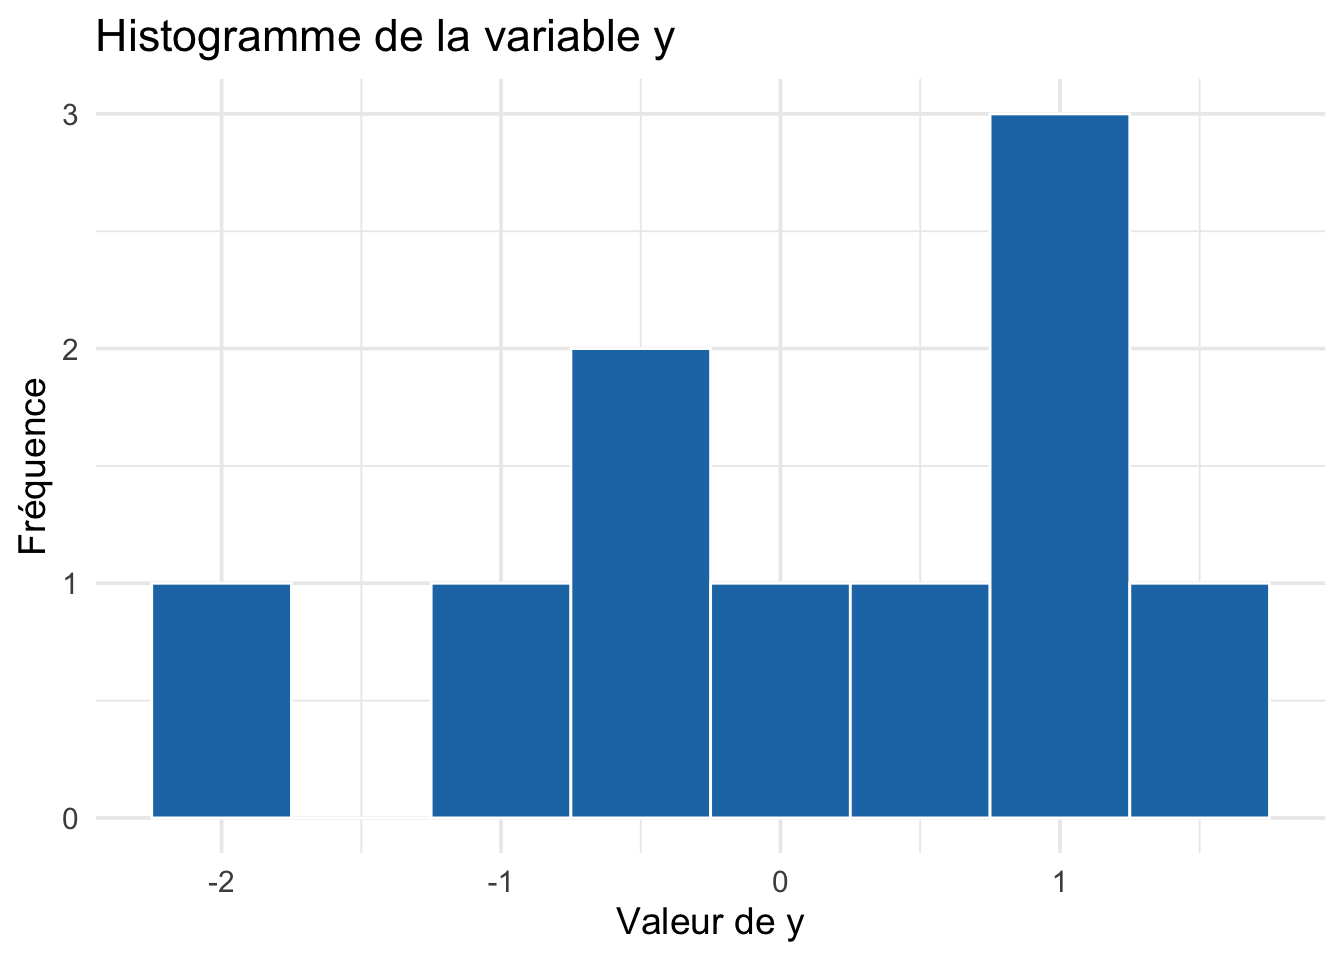
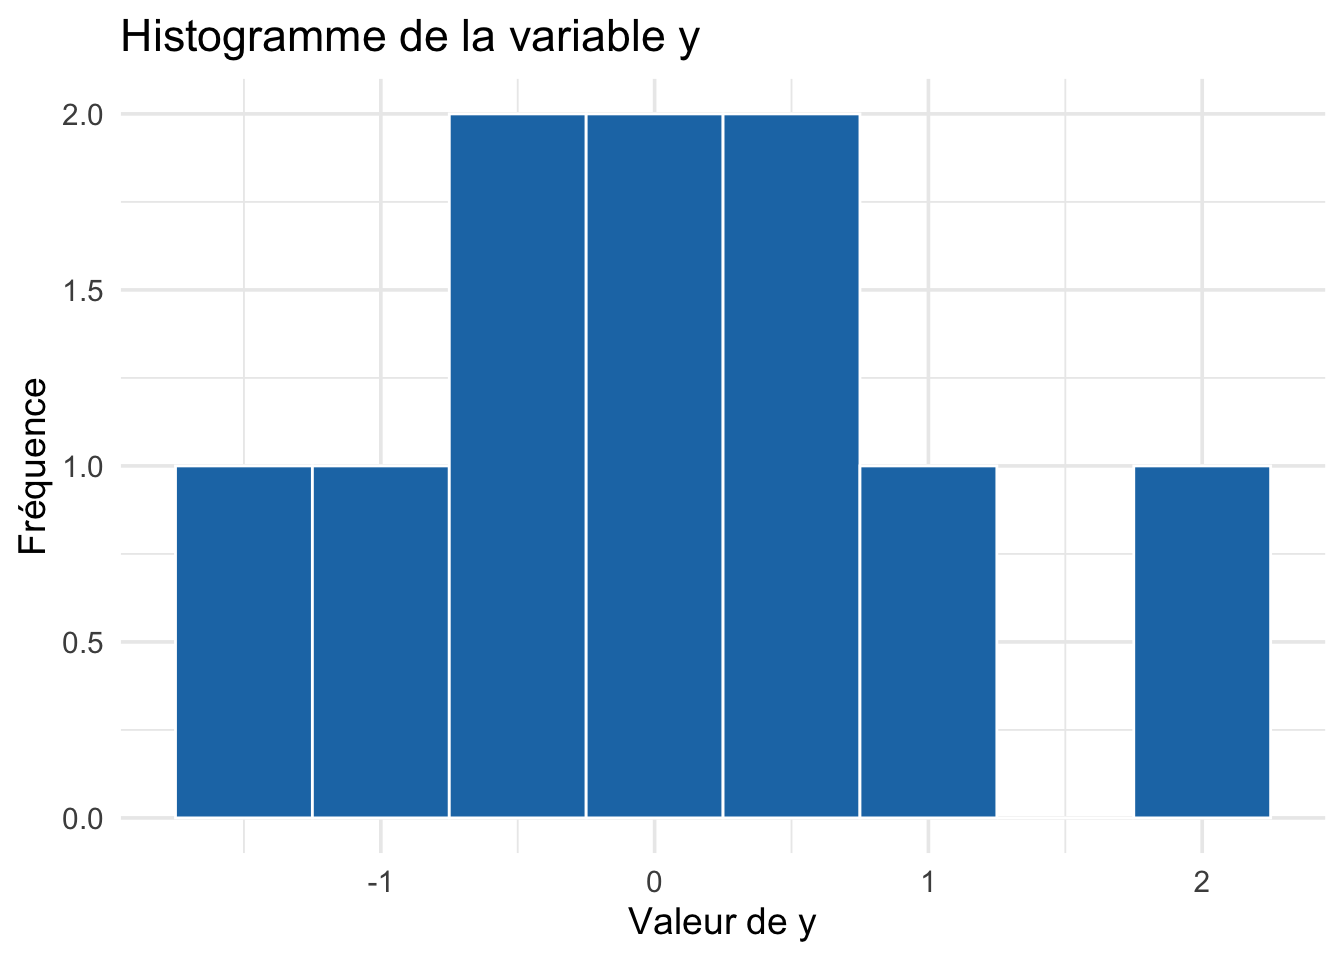
push

diff --git a/docs/IUT/Autoweb/index.html b/docs/IUT/Autoweb/index.html
@@ -302,18 +302,18 @@ pre > code.sourceCode > span > a:first-child::before { text-decoration: underlin
 <span id="cb2-21"><a href="#cb2-21" aria-hidden="true" tabindex="-1"></a>df</span></code><button title="Copier vers le presse-papier" class="code-copy-button"><i class="bi"></i></button></pre></div>
 <div class="cell-output cell-output-stdout">
 <pre><code># A tibble: 10 × 3
-       x        y        z
-   &lt;int&gt;    &lt;dbl&gt;    &lt;dbl&gt;
- 1     1  0.00653  0.00653
- 2     2  1.33     2.66   
- 3     3  0.648    1.94   
- 4     4 -1.79    -7.16   
- 5     5 -0.340   -1.70   
- 6     6  1.19     7.14   
- 7     7 -1.21    -8.50   
- 8     8  0.846    6.77   
- 9     9 -0.319   -2.87   
-10    10  1.00    10.0    </code></pre>
+       x        y       z
+   &lt;int&gt;    &lt;dbl&gt;   &lt;dbl&gt;
+ 1     1  1.87     1.87  
+ 2     2  0.229    0.458 
+ 3     3 -0.625   -1.87  
+ 4     4  0.677    2.71  
+ 5     5 -0.428   -2.14  
+ 6     6  0.00179  0.0107
+ 7     7 -1.30    -9.13  
+ 8     8  0.507    4.06  
+ 9     9  1.24    11.2   
+10    10 -0.759   -7.59  </code></pre>
 </div>
 </div>
 </section>
@@ -324,12 +324,12 @@ pre > code.sourceCode > span > a:first-child::before { text-decoration: underlin
 <span id="cb4-2"><a href="#cb4-2" aria-hidden="true" tabindex="-1"></a><span class="fu">summary</span>(df)</span></code><button title="Copier vers le presse-papier" class="code-copy-button"><i class="bi"></i></button></pre></div>
 <div class="cell-output cell-output-stdout">
 <pre><code>       x               y                 z          
- Min.   : 1.00   Min.   :-1.7906   Min.   :-8.4957  
- 1st Qu.: 3.25   1st Qu.:-0.3345   1st Qu.:-2.5789  
- Median : 5.50   Median : 0.3271   Median : 0.9747  
- Mean   : 5.50   Mean   : 0.1358   Mean   : 0.8315  
- 3rd Qu.: 7.75   3rd Qu.: 0.9637   3rd Qu.: 5.7416  
- Max.   :10.00   Max.   : 1.3281   Max.   :10.0282  </code></pre>
+ Min.   : 1.00   Min.   :-1.3038   Min.   :-9.1266  
+ 1st Qu.: 3.25   1st Qu.:-0.5756   1st Qu.:-2.0747  
+ Median : 5.50   Median : 0.1154   Median : 0.2344  
+ Mean   : 5.50   Mean   : 0.1409   Mean   :-0.0443  
+ 3rd Qu.: 7.75   3rd Qu.: 0.6343   3rd Qu.: 2.4965  
+ Max.   :10.00   Max.   : 1.8670   Max.   :11.1835  </code></pre>
 </div>
 </div>
 </section>

diff --git a/docs/TP1.html b/docs/TP1.html
@@ -326,7 +326,7 @@ TP noté
 </div>
 </a>
 </div>
-<div class="g-col-1" data-index="3" data-listing-date-sort="NaN" data-listing-file-modified-sort="1747572323966" data-listing-date-modified-sort="NaN" data-listing-reading-time-sort="2" data-listing-word-count-sort="329">
+<div class="g-col-1" data-index="3" data-listing-date-sort="NaN" data-listing-file-modified-sort="1747573243003" data-listing-date-modified-sort="NaN" data-listing-reading-time-sort="2" data-listing-word-count-sort="329">
 <a href="./IUT/Autoweb/index.html" class="quarto-grid-link">
 <div class="quarto-grid-item card h-100 card-left">
 <p class="card-img-top"><img src="IUT/Autoweb/index_files/figure-html/unnamed-chunk-4-1.png" style="height: 150px;"  class="thumbnail-image card-img"/></p>
